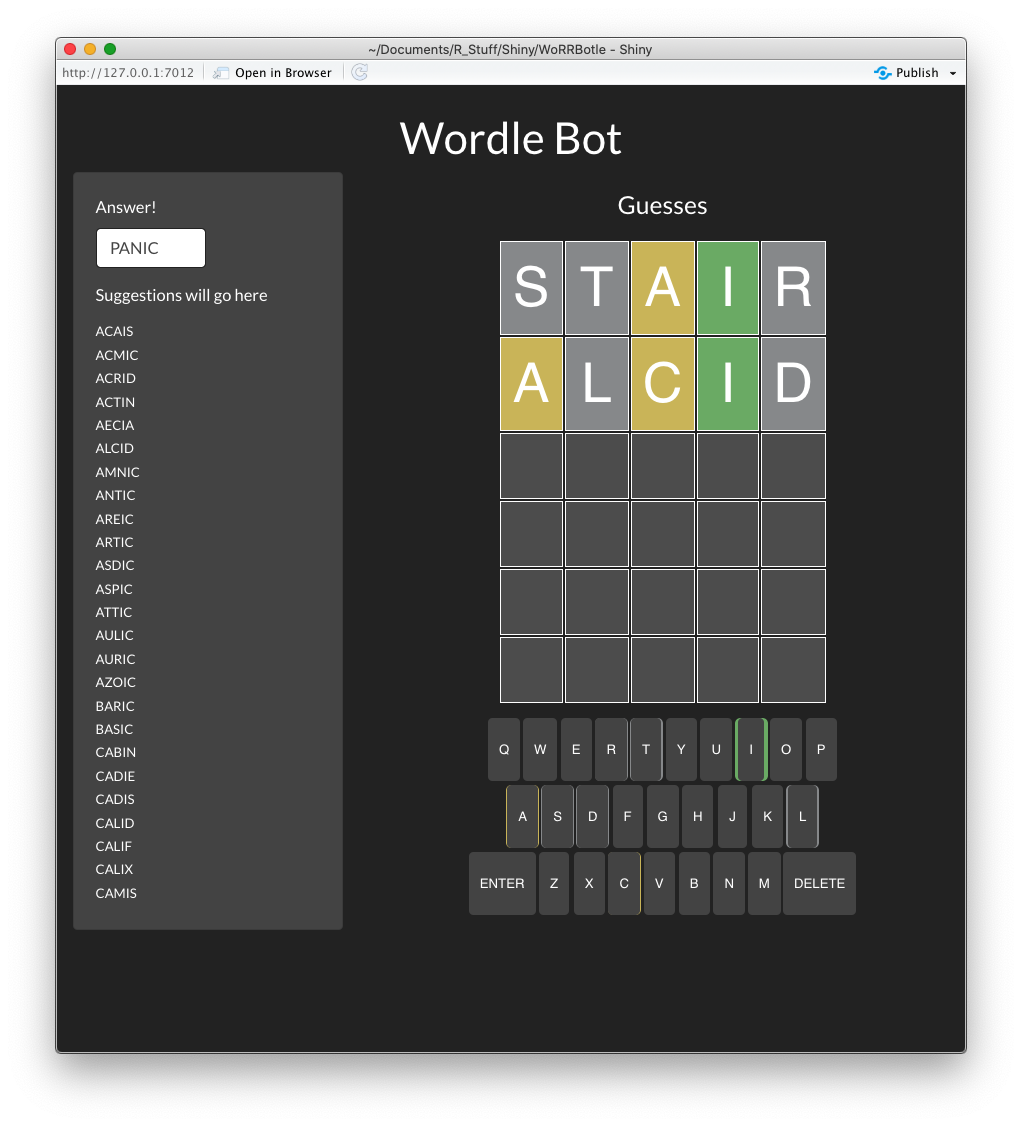
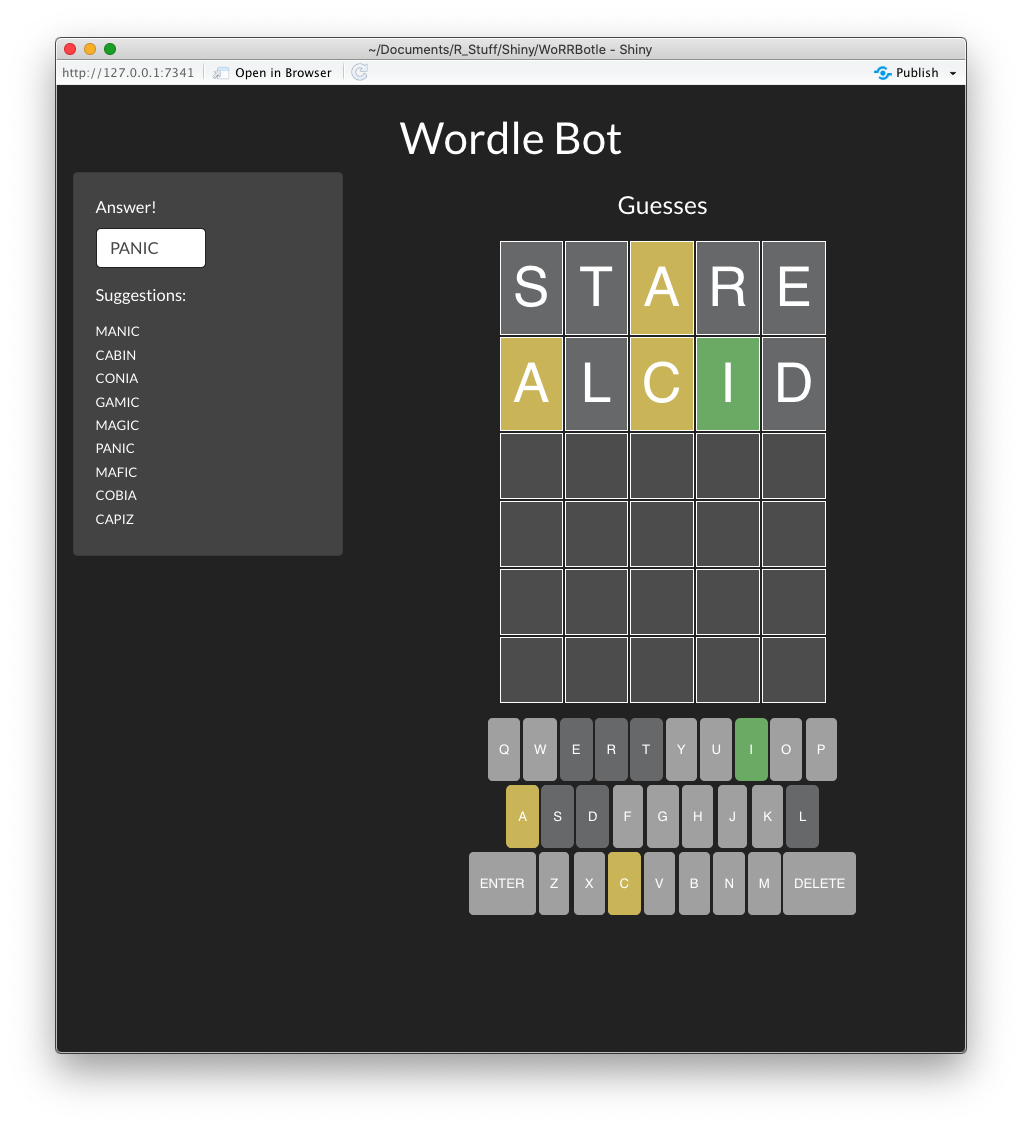
Updates README.Rmd and sample screenshot

Changed region(s): [[0.455, 0.2174, 0.8493, 0.8385], [0.0607, 0.2795, 0.3337, 0.8385], [0.182, 0.2484, 0.2427, 0.2795]]

diff --git a/README.md b/README.md
@@ -12,16 +12,16 @@ README
 
 **WoRRBotle** is a Shiny wordle bot. It allows you to play wordle using
 either a word chosen by the bot or a word you choose – which is not much
-of a puzzle, but is good for testing your strategy. The goal is for it
-to present a list of words which are possible choices given the guesses
-so far.
+of a puzzle, but is good for testing your strategy. It presents a list
+of words which are possible choices given the guesses so far, arranged
+by its idea of which are more likely.
 
 This was written just as an exercise in Shiny but holy smokes, I am
 learning a lot about improving Shiny interfaces, R Markdown, and open
 source in the course of doing it.
 
-This is intended to use the coolbutuseless/wordle package, which you can
-install from [GitHub](https://github.com/coolbutuseless/wordle) with:
+This uses the coolbutuseless/wordle package, which you can install from
+[GitHub](https://github.com/coolbutuseless/wordle) with:
 
 ``` r
 # install.packages('remotes')
@@ -30,4 +30,4 @@ remotes::install_github('coolbutuseless/wordle')
 
 <img src="www/sample_screenshot.png">
 
-Sample screen shot as of Feb. 3, 2022
+Sample screen shot as of Feb. 7, 2022
